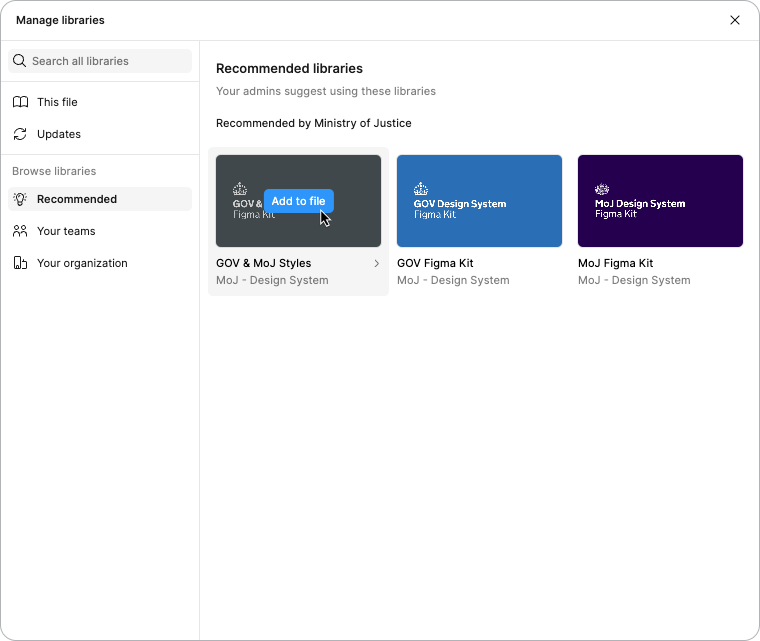
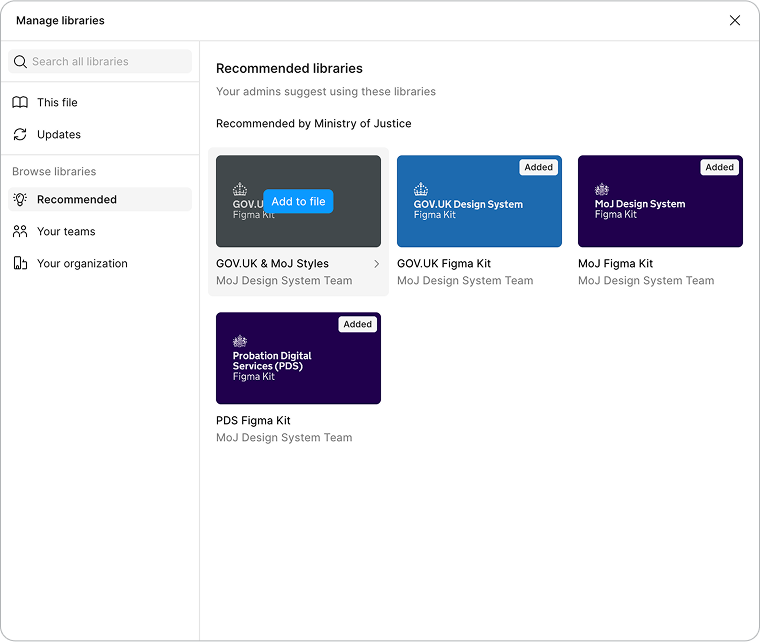
docs: change content (#1670)
* docs: change content

To suit future where Figma Kits are hosted on figma.com/community

* Update example.njk

* Update setting-up-figma-prototypes.md

* docs: update images

* docs: change 'GOV' to 'GOV.UK'

* docs: content updates

* docs: images and PDS ref

* docs: update images

* docs: image updates

* docs: image updates

* docs: image res

* Docs: content tweaks

---------

diff --git a/docs/prototyping/setting-up-figma-prototypes.md b/docs/prototyping/setting-up-figma-prototypes.md
@@ -17,16 +17,17 @@ eleventyNavigation:
 
 ## If you work for the Ministry of Justice
 
-3 Figma Kits are automatically added to all Figma files in the MoJ:
+4 Figma Kits are automatically added to all Figma files in the MoJ:
 
-- [GOV & MoJ Styles](https://www.figma.com/design/rbzFtXbYqItzqtfE3fdCQ4/GOV-%26-MoJ-Styles?m=auto&node-id=20-17040&t=u1P8phs3qyRxZ4FQ-1)
-- [GOV Figma Kit](https://www.figma.com/design/cdmqMa73kZBDEC42spSVba/GOV-Figma-Kit?m=auto&node-id=20-17040&t=ZG7js0TWe3yzv5CD-1)
+- [GOV.UK & MoJ Styles](https://www.figma.com/design/rbzFtXbYqItzqtfE3fdCQ4/GOV-%26-MoJ-Styles?m=auto&node-id=20-17040&t=u1P8phs3qyRxZ4FQ-1)
+- [GOV.UK Figma Kit](https://www.figma.com/design/cdmqMa73kZBDEC42spSVba/GOV-Figma-Kit?m=auto&node-id=20-17040&t=ZG7js0TWe3yzv5CD-1)
 - [MoJ Figma Kit](https://www.figma.com/design/N2xqOFkyehXwcD9DxU1gEq/MoJ-Figma-Kit?node-id=20-17040)
+- [Probation Digital Services (PDS) Figma Kit](https://www.figma.com/design/AT9lj3HbJj6lYKrZLeM8CN/PDS-Figma-Kit?m=auto)
 
 This enables Figma prototypes to benefit from centrally maintained updates.
 
 <div class="govuk-inset-text">
-  Do not use the <a href="https://www.figma.com/community/file/946837271092540314">GOV.UK Design System Figma community file</a>. It's not updated or maintained by anyone.
+  Do not download and use any GOV.UK or MoJ Figma files from the <a href="http://www.figma.com/community">Figma Community</a>. If you work for MoJ you should use the libraries that are automatically added.
 </div>
 
 ### How to check that the Figma Kits are active in your file
@@ -36,15 +37,15 @@ This enables Figma prototypes to benefit from centrally maintained updates.
 2. Select 'Assets' from the side navigation and then the book icon.
 <p><img src="/assets/images/figma-guidance-assets-menu.png" style="border:none" alt="A cropped view of the side navigation in the Figma app, showing The Figma logo, the filename 'Untitled', the file location 'drafts', the 'Files' and 'Assets' tabs, an icon showing an open book, and a search bar. The 'Assets' tab is selected."></p>
 
-3. Look under the heading ‘Libraries added to this file’ If there's a list of the 3 libraries (GOV & MoJ Styles, GOV Figma Kit, and MoJ Figma Kit) the Figma Kits are active. You do not need to do anything else.
-<p><img src="/assets/images/figma-guidance-default-libraries.png" style="border:none" alt="A 'Manage libraries' window with a side navigation menu showing a 'This file' tab selected. The content in the main pane is in two sections: 'Assets created in this file' and 'Libraries added to this file'. Under 'Libraries added to this file' there are three libraries: 'GOV & MoJ Styles', 'GOV Figma Kit' and 'MoJ Figma Kit'. Next to each, there is a 'Remove' button."></p>
+3. Look under the heading ‘Libraries added to this file’ If there's a list of the 3 libraries (GOV.UK & MoJ Styles, GOV.UK Figma Kit, and MoJ Figma Kit) the Figma Kits are active. You do not need to do anything else.
+<p><img src="/assets/images/figma-guidance-default-libraries.png" style="border:none" alt="A 'Manage libraries' window with a side navigation menu showing a 'This file' tab selected. The content in the main pane is in two sections: 'Assets created in this file' and 'Libraries added to this file'. Under 'Libraries added to this file' there are three libraries: 'GOV.UK & MoJ Styles', 'GOV.UK Figma Kit' and 'MoJ Figma Kit'. Next to each, there is a 'Remove' button."></p>
 
 4. If the 3 libraries do not appear, go to 'Browse libraries' in the side navigation. Then select 'Recommended' (it has a light bulb icon).
 
 5. Focus on each library and select the 'Add to file' button.
-<p><img src="/assets/images/figma-guidance-recommended-libraries-hover.png" style="border:none" alt="A 'Manage libraries' window with a side navigation menu showing a 'Recommended' tab selected. The content in the main pane shows the heading 'Recommended libraries' and the text 'Your admins suggest using these libraries'. Underneath there is another heading reading 'Recommended by Ministry of Justice', with three libraries shown below: 'GOV & MoJ Styles', 'GOV Figma Kit' and 'MoJ Figma Kit'. 'GOV & MoJ Styles' is being hovered over and has an 'Add to file' button over it."></p>
+<p><img src="/assets/images/figma-guidance-recommended-libraries-hover.png" style="border:none" alt="A 'Manage libraries' window with a side navigation menu showing a 'Recommended' tab selected. The content in the main pane shows the heading 'Recommended libraries' and the text 'Your admins suggest using these libraries'. Underneath there is another heading reading 'Recommended by Ministry of Justice', with three libraries shown below: 'GOV.UK & MoJ Styles', 'GOV.UK Figma Kit' and 'MoJ Figma Kit'. 'GOV.UK & MoJ Styles' is being hovered over and has an 'Add to file' button over it."></p>
 
-6. To check that the files have been added, select ‘This file’ in the side navigation. You should now see the 3 libraries: GOV & MoJ Styles, GOV Figma Kit, and MoJ Figma Kit. This means the Figma Kits are active. You do not need to do anything else.
+6. To check that the files have been added, select ‘This file’ in the side navigation. You should now see the 3 libraries: GOV.UK & MoJ Styles, GOV.UK Figma Kit, and MoJ Figma Kit. This means the Figma Kits are active. You do not need to do anything else.
 
 ### How to get updates from the Figma Kits
 
@@ -65,18 +66,28 @@ When the Figma Kits are updated, you’ll be notified in Figma. You can also che
 
 ### How to download and use the Figma Kits
 
-1. Open the Figma Kit you want to download and use:
-   - [GOV & MoJ Styles](https://www.figma.com/design/rbzFtXbYqItzqtfE3fdCQ4/GOV-%26-MoJ-Styles?m=auto&node-id=20-17040&t=u1P8phs3qyRxZ4FQ-1)
-   - [GOV Figma Kit](https://www.figma.com/design/cdmqMa73kZBDEC42spSVba/GOV-Figma-Kit?m=auto&node-id=20-17040&t=ZG7js0TWe3yzv5CD-1)
-   - [MoJ Figma Kit](https://www.figma.com/design/N2xqOFkyehXwcD9DxU1gEq/MoJ-Figma-Kit?node-id=20-17040)
-2. Select the Figma logo at the top of the left-hand side navigation and go to File > Save local copy.
-<p><img src="/assets/images/figma-guidance-download-kit.png" style="border:none" alt="A cropped view of the side navigation in the Figma app. The Figma logo has been selected and a menu has opened. The 'file' submenu has been opened and 'Save local copy...' is being hovered over."></p>
+1. Select the Figma Kit you want to use:
+   - [GOV.UK & MoJ Styles](https://www.figma.com/community/file/1543188213395170918)
+   - [GOV.UK Figma Kit](https://www.figma.com/community/file/1543190867840891511)
+   - [MoJ Figma Kit](https://www.figma.com/community/file/1543193133973726850)
 
-3. Add the downloaded file into your project, publish it as a library, and use it in your files.
+<div class="govuk-inset-text">
+  To use the MoJ Figma Kit, you'll need to add all 3 Figma libraries to your project.
+</div>
+
+2. Select 'Open in Figma'.
+
+3. If you have multiple Figma accounts, you'll be asked where you would like to open the file. Select the account you would like to open it with. The file will be now be saved in your drafts.
+
+4. Move the file to the project you're working on so that it can be accessed by everyone working on the project. [Read about moving files in Figma](https://help.figma.com/hc/en-us/articles/360038511573-Move-a-file).
+
+5. Publish the file as a library.  [Read about publishing a library in Figma](https://help.figma.com/hc/en-us/articles/360025508373-Publish-a-library).
+
+6. Repeat steps 1 to 5 for each Figma Kit you want to add to your project.
 
 ### Manually update the Figma Kits
 
-1. Every so often, check [GOV & MoJ Styles](https://www.figma.com/design/rbzFtXbYqItzqtfE3fdCQ4/GOV-%26-MoJ-Styles?m=auto&node-id=20-17040&t=u1P8phs3qyRxZ4FQ-1), the [GOV Figma Kit](https://www.figma.com/design/cdmqMa73kZBDEC42spSVba/GOV-Figma-Kit?m=auto&node-id=20-17040&t=ZG7js0TWe3yzv5CD-1) and the [MoJ Figma Kit](https://www.figma.com/design/N2xqOFkyehXwcD9DxU1gEq/MoJ-Figma-Kit?node-id=20-17040) for updates.
+1. Every so often, check [GOV.UK & MoJ Styles](https://www.figma.com/community/file/1543188213395170918), the [GOV.UK Figma Kit](https://www.figma.com/community/file/1543190867840891511) and the [MoJ Figma Kit](https://www.figma.com/community/file/1543193133973726850) for updates.
 2. Save a local copy of the latest version of the Figma Kit you want to update.
 3. Reload it into your Figma workspace as a library.
 4. Open your design files, and use the [swap libraries](https://help.figma.com/hc/en-us/articles/4404856784663-Swap-style-and-component-libraries) feature in Figma to replace all references to the outdated version of the MoJ Figma Kit. You can only use 'swap libraries' with a paid Figma licence. If you do not have one, [swap components](https://help.figma.com/hc/en-us/articles/360039150413-Swap-components-and-instances) individually instead.
